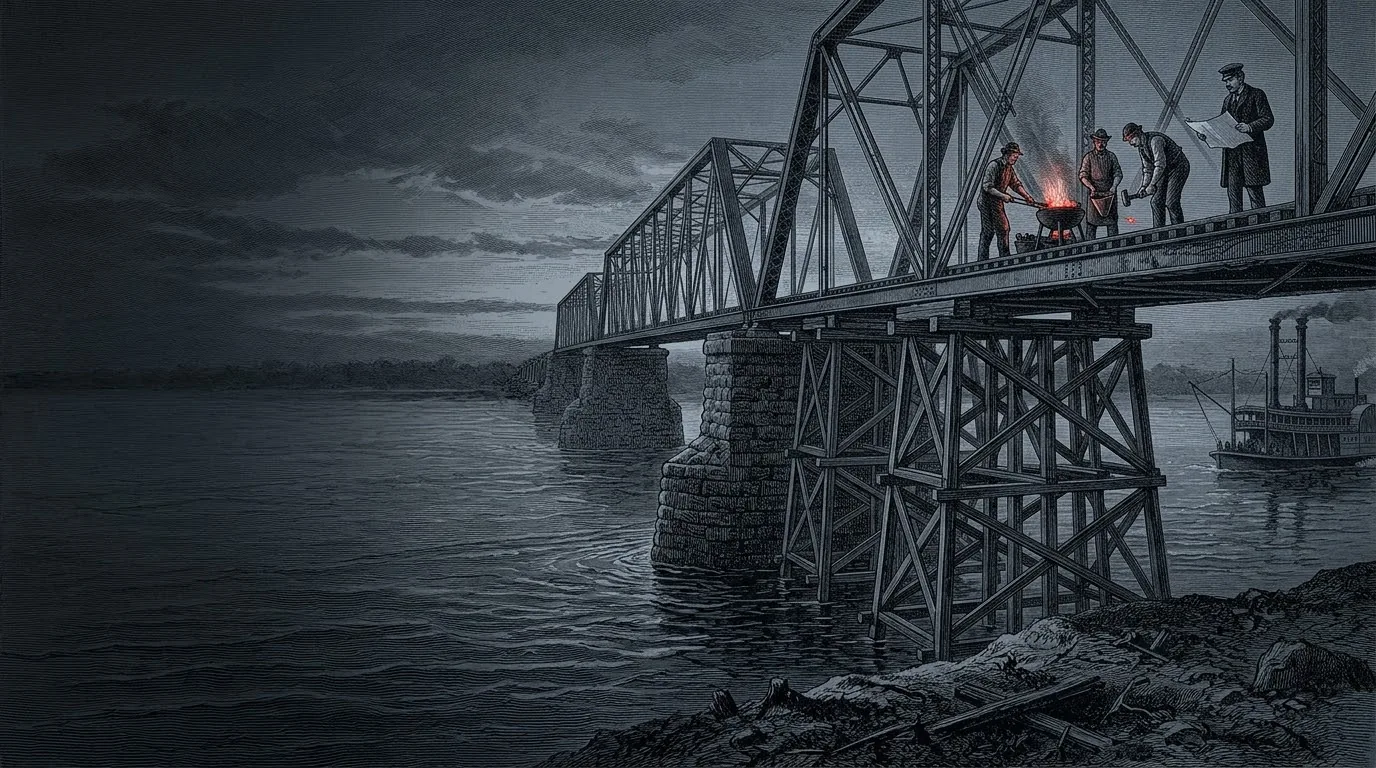
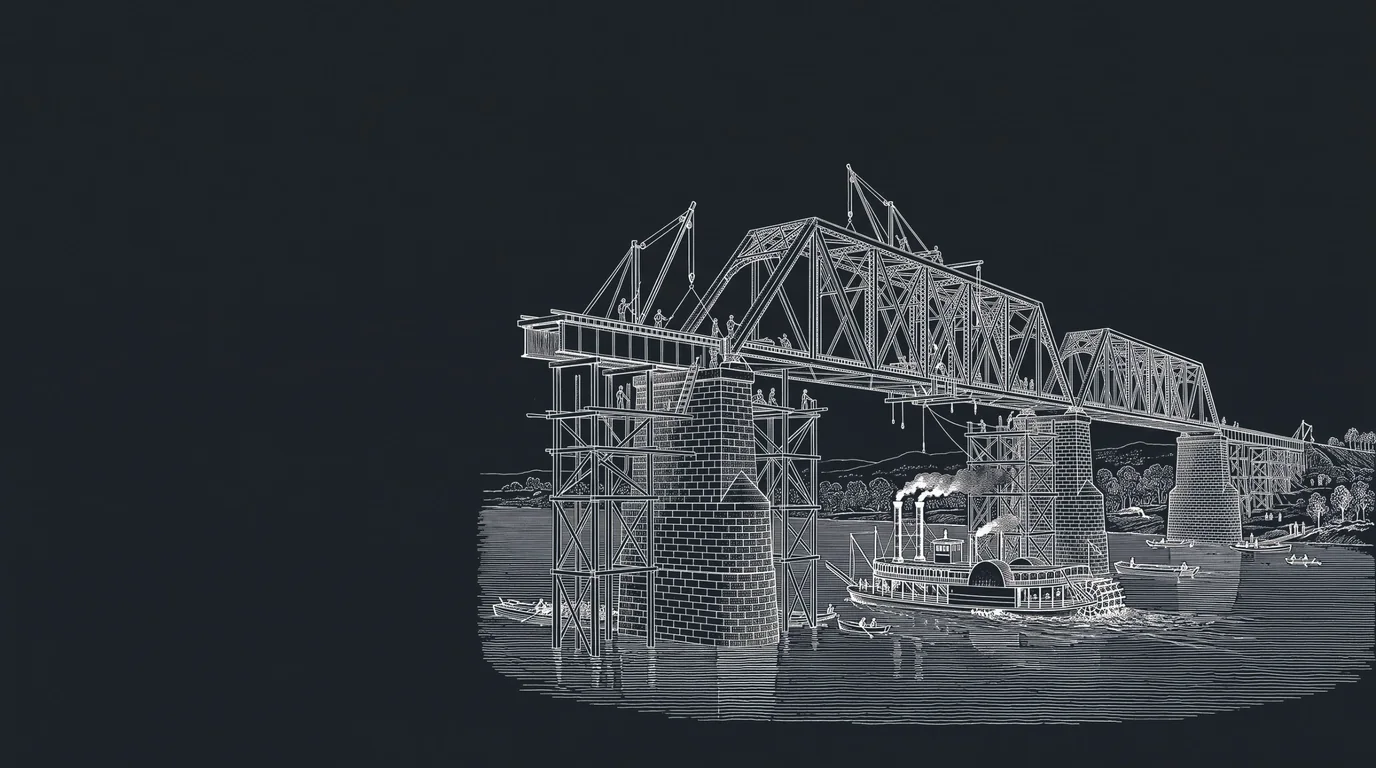
Steel Meridian: the line-engraved span on the masthead
Claude-Session: https://claude.ai/code/session_01JsadCXExbidFhnhA8ckhTX

diff --git a/projects/steel-meridian/index.html b/projects/steel-meridian/index.html
@@ -75,7 +75,7 @@
     <p class="ld-mast__kicker">LUD—01 · 18xx · Railways, rivers and industry</p>
     <div class="ld-mast__status"><span class="ld-stamps"><span class="ld-stamp ld-stamp--dev">In development</span><span class="ld-stamp ld-stamp--research">Research</span></span></div>
     <h1 class="ld-mast__title" id="mast-sm"><span class="ld-mast__pre">Steel</span> <span class="ld-mast__word">Mer<span class="ld-redi">i</span>dian</span><span class="ld-mast__name">18Heartland</span></h1>
-    <figure class="ld-mast__art ld-lineart" data-ld-reveal><img src="/assets/steel-meridian/sm-span.webp" alt="An engraving in steel blue-grey: a railroad bridge under construction across a wide river, steel trusses on stone piers and timber falsework, a gang riveting at a glowing forge on the deck, a sternwheel steamboat downstream." width="1376" height="768"></figure>
+    <figure class="ld-mast__art ld-lineart" data-ld-reveal><img src="/assets/steel-meridian/sm-span.webp" alt="A white line engraving on steel blue: a railroad bridge under construction across a wide river, truss spans lifted by derricks onto brick piers and timber falsework, workers on the deck and scaffolding, a sternwheel steamboat passing beneath." width="1376" height="768"></figure>
     <p class="ld-mast__dek">An 18xx game of railways, rivers and industry across the American interior, from the Rockies to the Appalachians.</p>
     <div class="ld-mast__verbs"><ol class="ld-mech ld-mech--row"><li><span class="ld-mech__no">01</span><span class="ld-mech__verb">Steel</span><p class="ld-mech__gloss">The rails, the bridges, and the mills that make them.</p></li><li><span class="ld-mech__no">02</span><span class="ld-mech__verb">Rivers</span><p class="ld-mech__gloss">The water a railway must cross, and the trade already on it.</p></li><li><span class="ld-mech__no">03</span><span class="ld-mech__verb">Freight</span><p class="ld-mech__gloss">What the line carries, and who is paid to carry it.</p></li><li><span class="ld-mech__no">04</span><span class="ld-mech__verb">Capital</span><p class="ld-mech__gloss">Shares, presidencies, and the price of the next train.</p></li><li><span class="ld-mech__no">05</span><span class="ld-mech__verb">Industry</span><p class="ld-mech__gloss">Timber, coal, steel and oil, and the towns that grow around them.</p></li><li><span class="ld-mech__no">06</span><span class="ld-mech__verb">Land</span><p class="ld-mech__gloss">Plains and mountains, and every hex still unlaid.</p></li></ol></div>
     <div class="ld-mast__foot"><dl class="ld-meta"><div><dt>Status</dt><dd><span class="ld-stamps ld-stamps--s"><span class="ld-stamp ld-stamp--dev ld-stamp--s">In development</span><span class="ld-stamp ld-stamp--research ld-stamp--s">Research</span></span></dd></div><div><dt>Family</dt><dd>18xx</dd></div><div><dt>Setting</dt><dd>The American interior, about 1865–1930</dd></div><div><dt>Plays on</dt><dd>play.netadao.org, when ready</dd></div></dl><div class="ld-mast__play"><p class="ld-play ld-play--soon ld-play--l"><span class="ld-play__word">Play</span><span class="ld-play__what">In development · not yet on play.netadao.org</span></p></div></div>

diff --git a/design-system/components/ImageTreatments.md b/design-system/components/ImageTreatments.md
@@ -13,7 +13,7 @@ How pictures sit on Ludum's paper. Wrap the `<img>` in `.ld-treat` with one trea
 | `ld-giltframe` (not a treatment) | a gold double rule on `p18-panel`; the picture untouched | Project 18XX's title cards, and nothing else |
 
 - **In Press** (and inside any `data-theme="press"` field) `--print` stops multiplying and `--ink` inverts and screens, so an engraving prints as cream lines on black. The behaviour follows the nearest `[data-theme]`.
-- Steel Meridian's pictures live in `assets/steel-meridian/`: tonal engravings in steel blue-grey, each with one red light (a forge, a firebox, a red-hot rivet), shown as made with `ld-lineart`. The crossing (homepage), the span (masthead), the firebox (overview).
+- Steel Meridian's pictures live in `assets/steel-meridian/`: tonal engravings in steel blue-grey, each with one red light (a forge, a firebox, a red-hot rivet), and the span, a white line engraving on the masthead with no colour; all shown with `ld-lineart`, the span's ground matched to `sm-steel`. The crossing (homepage), the span (masthead), the firebox (overview).
 - House imagery comes from `assets/Imagery/` (crops of the supplied sheets, standing in until final photography): railway engraving, the 18xx board, pieces and certificates. 20 Cosmos's engravings live in `assets/20 Cosmos/`.
 - Project 18XX's pictures live in `assets/Project 18XX/`: two gold line drawings (feature and masthead) and the three title cards from its repository. Show them as made — never print-treated, duotoned, screened or collaged.
 - No space imagery for 20 Cosmos (the reference sheet's planets and starfields are out of brief). No stock photos of screens, coins or "blockchain" graphics, anywhere.

diff --git a/design-system/components/ProjectMastheadMeridian.md b/design-system/components/ProjectMastheadMeridian.md
@@ -5,6 +5,6 @@ The Steel Meridian variant of ProjectMasthead, built like 20 Cosmos's: STEEL ove
 - STEEL is Anton at d2 in `sm-text-dim`; MERIDIAN is Anton at d1 in `sm-plat`, its first I set in `sm-red` and drawn a little long (`ld-redi`, scaleY 1.14). The tagline 18HEARTLAND is mono at 14px, tracked 0.34em.
 - The red I appears wherever the name is set large: the masthead and the homepage feature. Never in running text, the nav or the departures board.
 - The edge is a surveyor's range pole: 22px bands of `sm-red` and `sm-plat`, 10px wide; on phones a 10px stripe across the top.
-- The picture is the span (`assets/steel-meridian/sm-span.webp`): the bridge under construction on falsework and stone piers, a gang at a glowing forge on the deck, a steamboat downstream. Its left third is dark water and sky, so the title sits over it; `ld-lineart` fades its left and lower edges into `sm-steel`.
+- The picture is the span (`assets/steel-meridian/sm-span.webp`): a white line engraving of the bridge under construction, truss spans lifted onto brick piers and falsework, a steamboat passing beneath. Its ground is matched to `sm-steel` and its left half is empty, so the title sits over it; `ld-lineart` fades its left and lower edges into `sm-steel`.
 - The six words — Steel · Rivers · Freight · Capital · Industry · Land — are what the game is *about*, not its mechanics.
 - Phone: the picture bleeds edge to edge as a 4:3 band, cropped to the workers.
